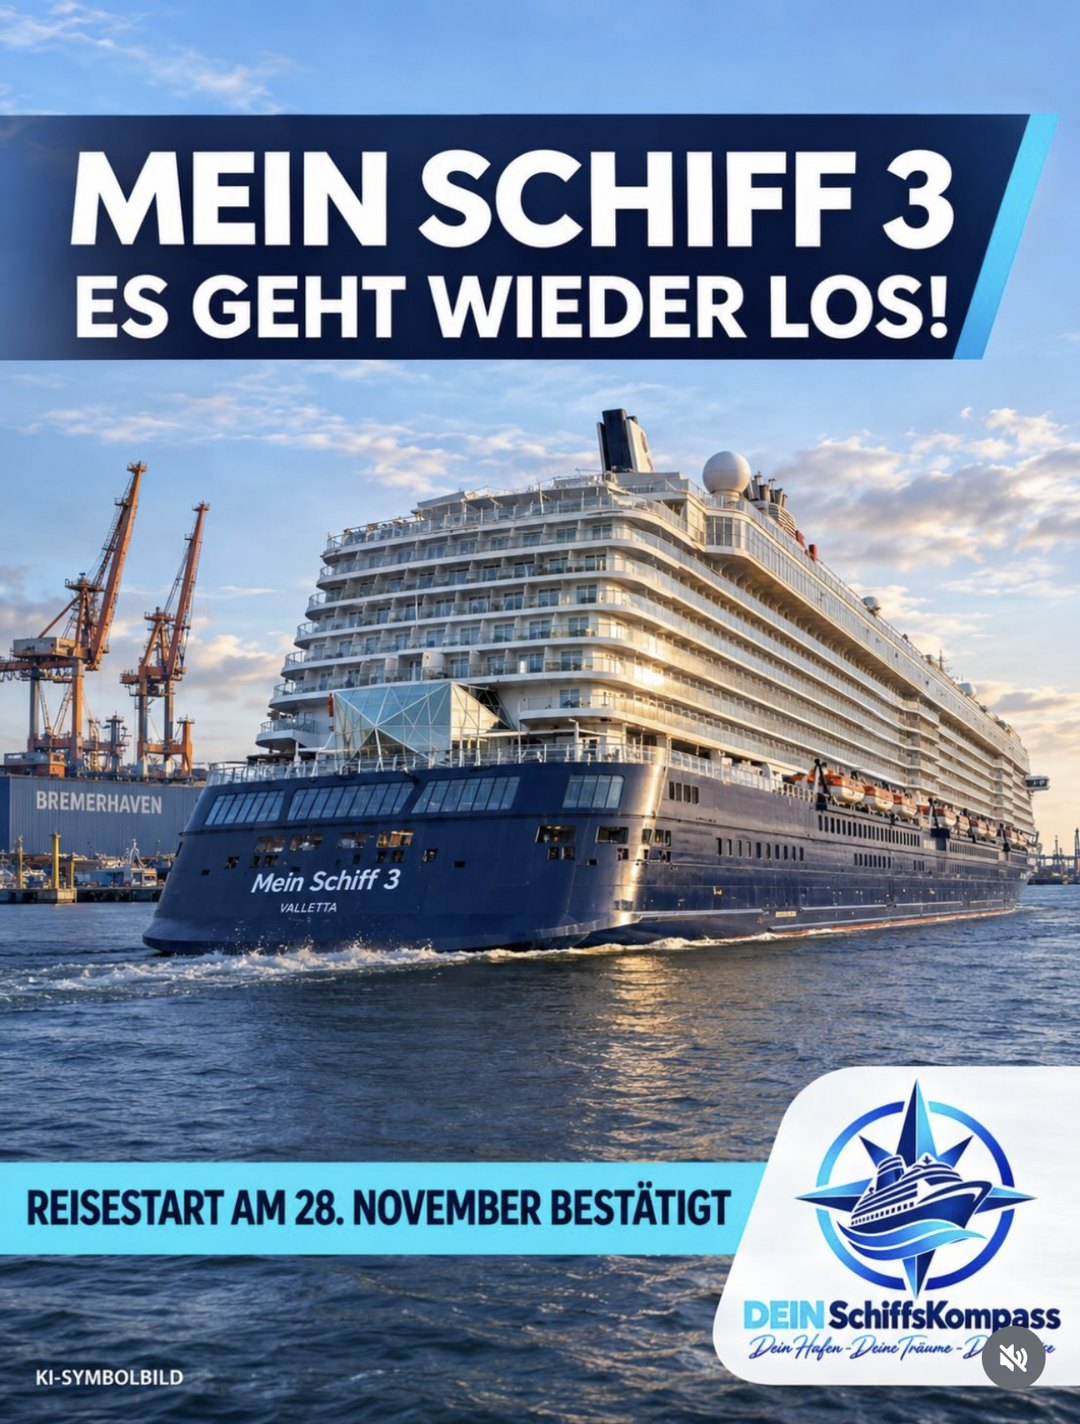
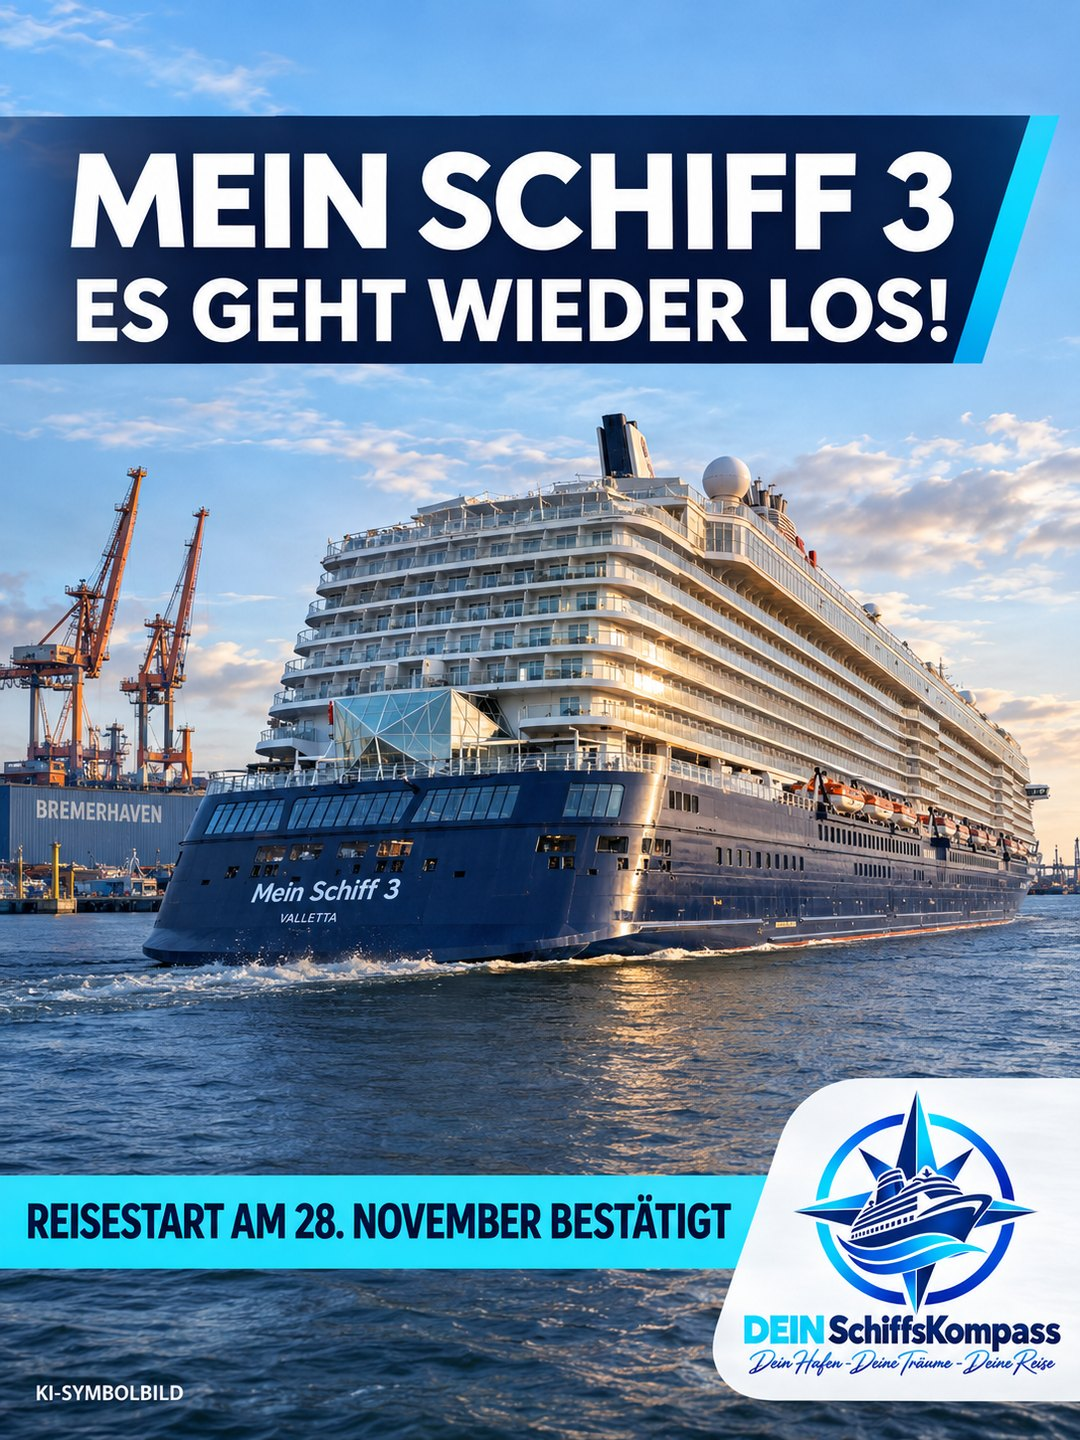
Tipps: Originalbild für „Mein Schiff 3: Es geht wieder los!“
Claude-Session: https://claude.ai/code/session_01Dorv1aYKQWAtvB5BPDcC9U

diff --git a/index.html b/index.html
@@ -746,7 +746,7 @@ function store(k,v){try{if(v===undefined)return JSON.parse(localStorage.getItem(
    {reihe:"Kurz erklärt",titel:"Das Geheimnis der goldenen Streifen: Deck & Engine, Teil 1"},
    {reihe:"Kurz erklärt",titel:"Das Geheimnis der silbernen Streifen: Hotel, Teil 2"},
    {titel:"Kapitäne und Kreuzfahrtdirektoren: Wie lange wirklich an Bord der Mein Schiff Flotte?"},
-   {titel:"Mein Schiff 3: Es geht wieder los!",bild:"img/tipps/mein-schiff-3-es-geht-wieder-los.jpg",ig:"https://www.instagram.com/p/Df7WTsvotiC/"}
+   {titel:"Mein Schiff 3: Es geht wieder los!",bild:"img/tipps/mein-schiff-3-es-geht-wieder-los.jpg?v=2",ig:"https://www.instagram.com/p/Df7WTsvotiC/"}
   ];
   var g=document.getElementById("tgrid");if(!g)return;
   function esc(t){return String(t).replace(/[&<>"]/g,function(c){return{"&":"&amp;","<":"&lt;",">":"&gt;",'"':"&quot;"}[c]})}
